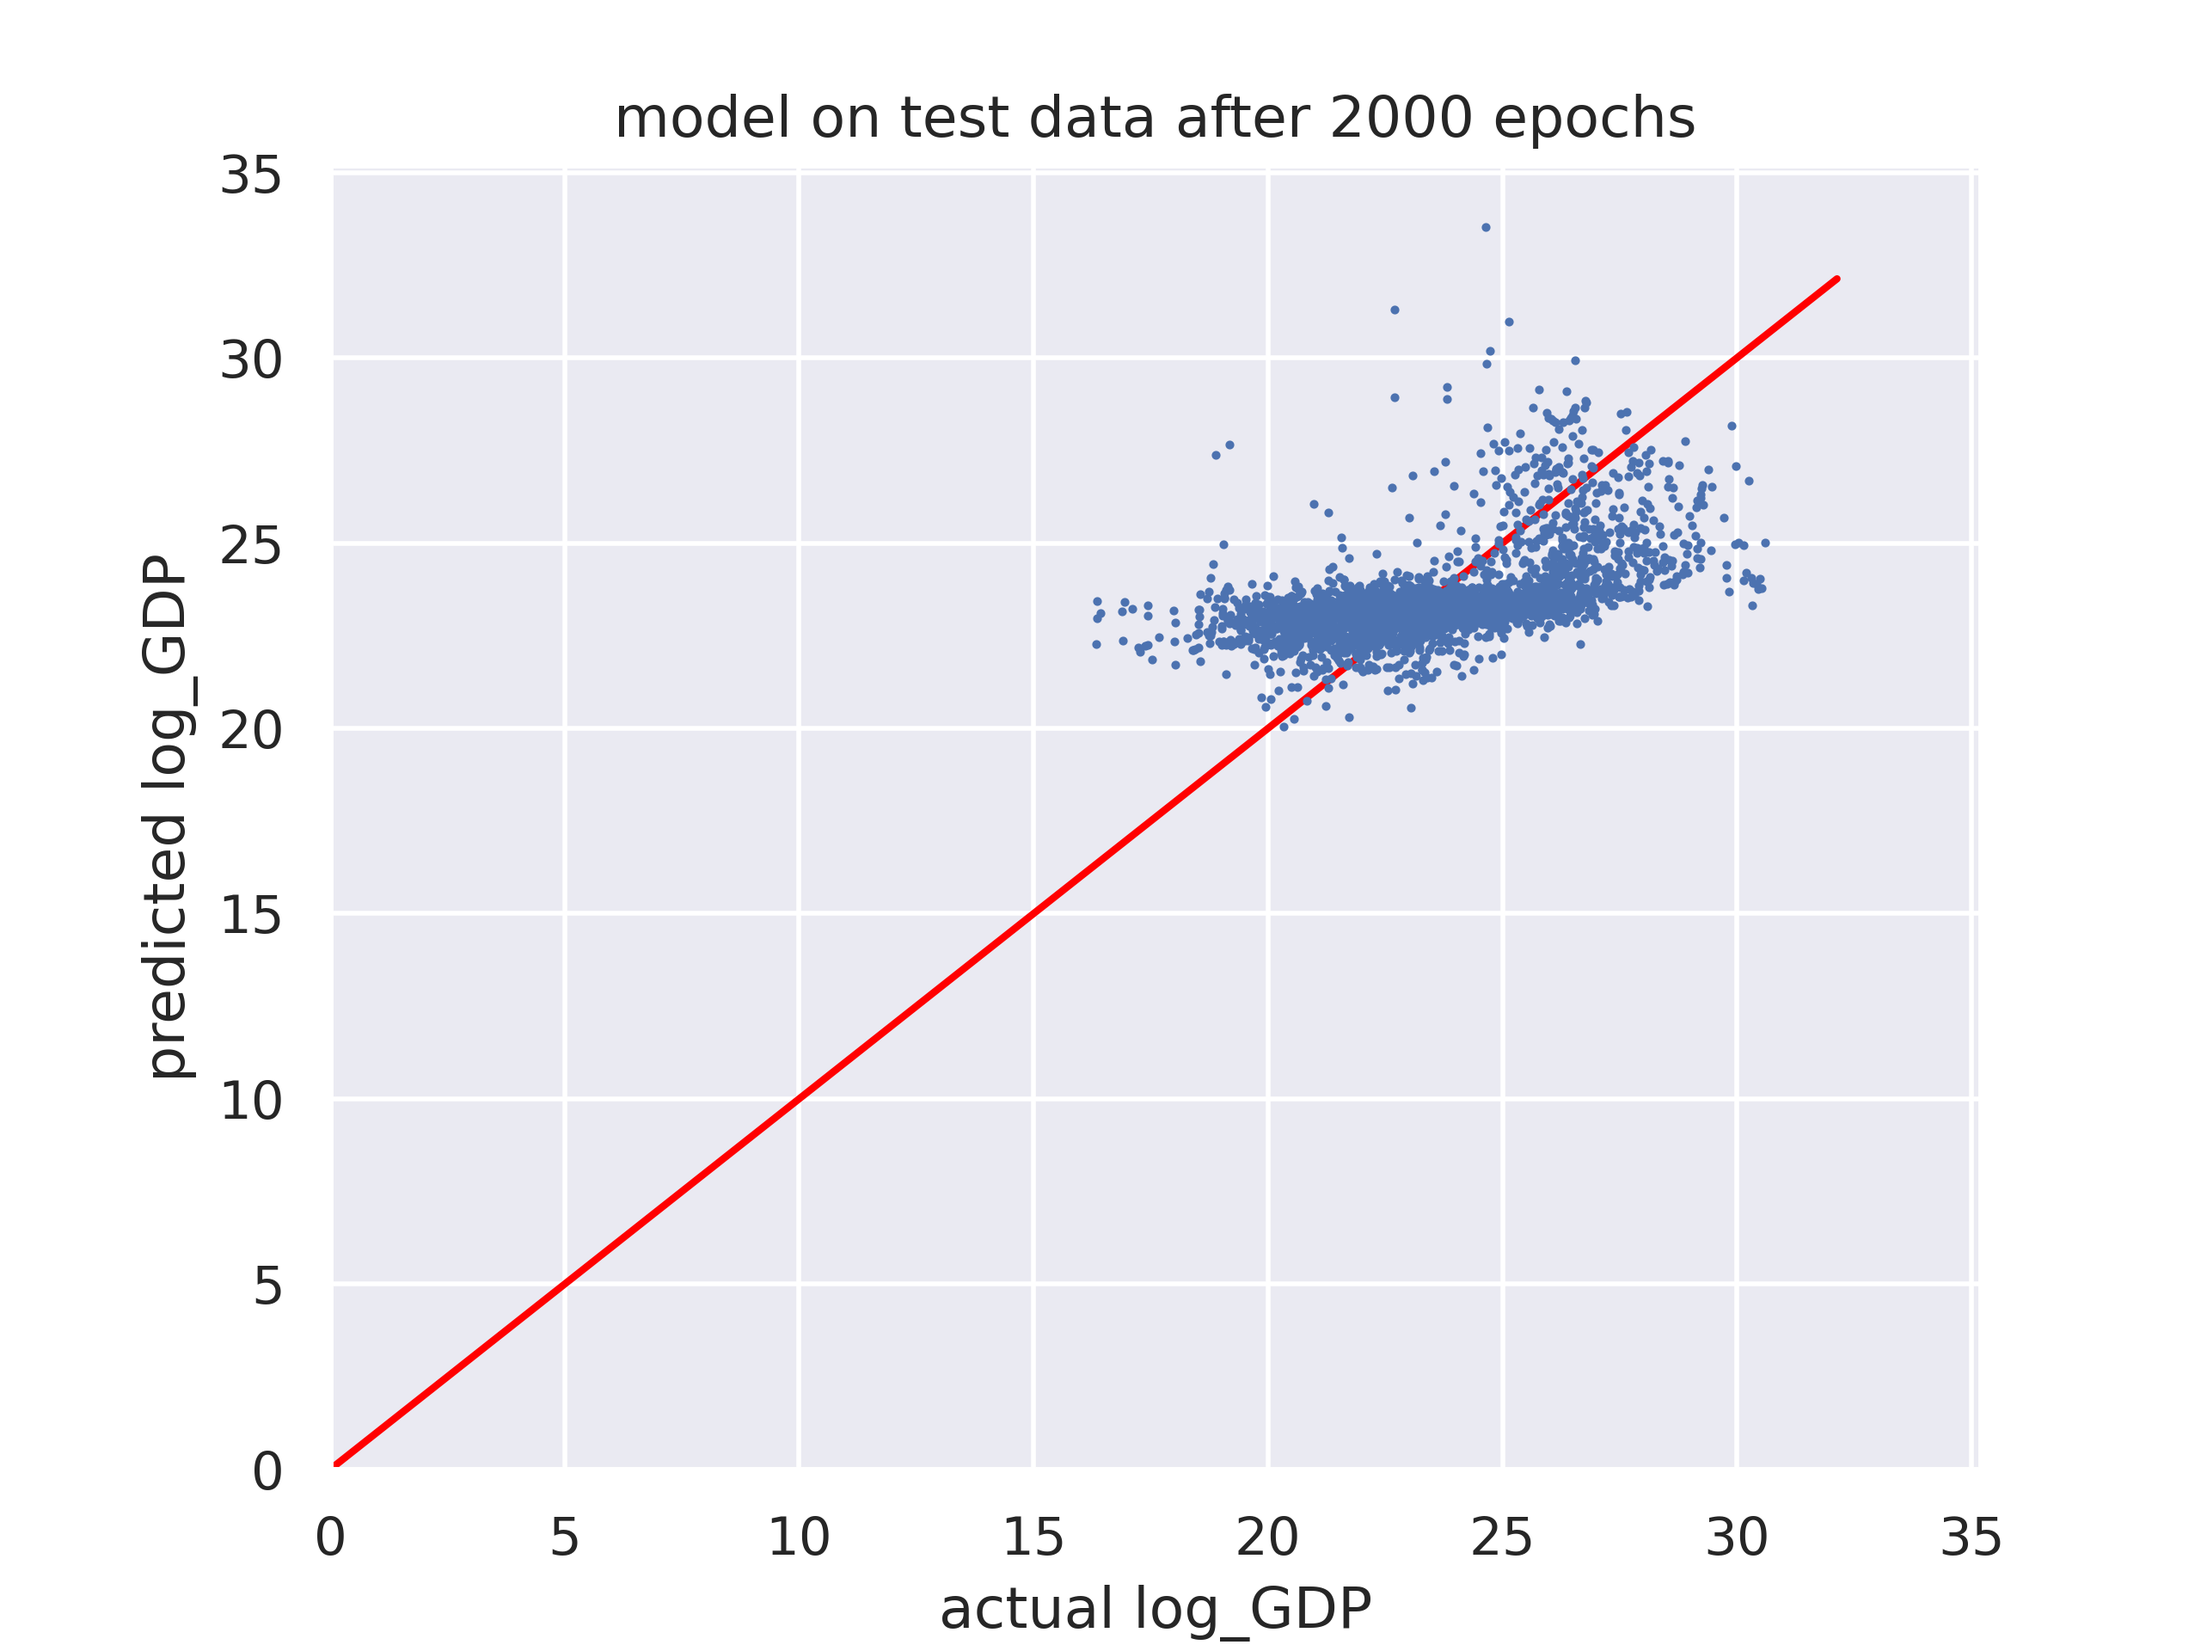
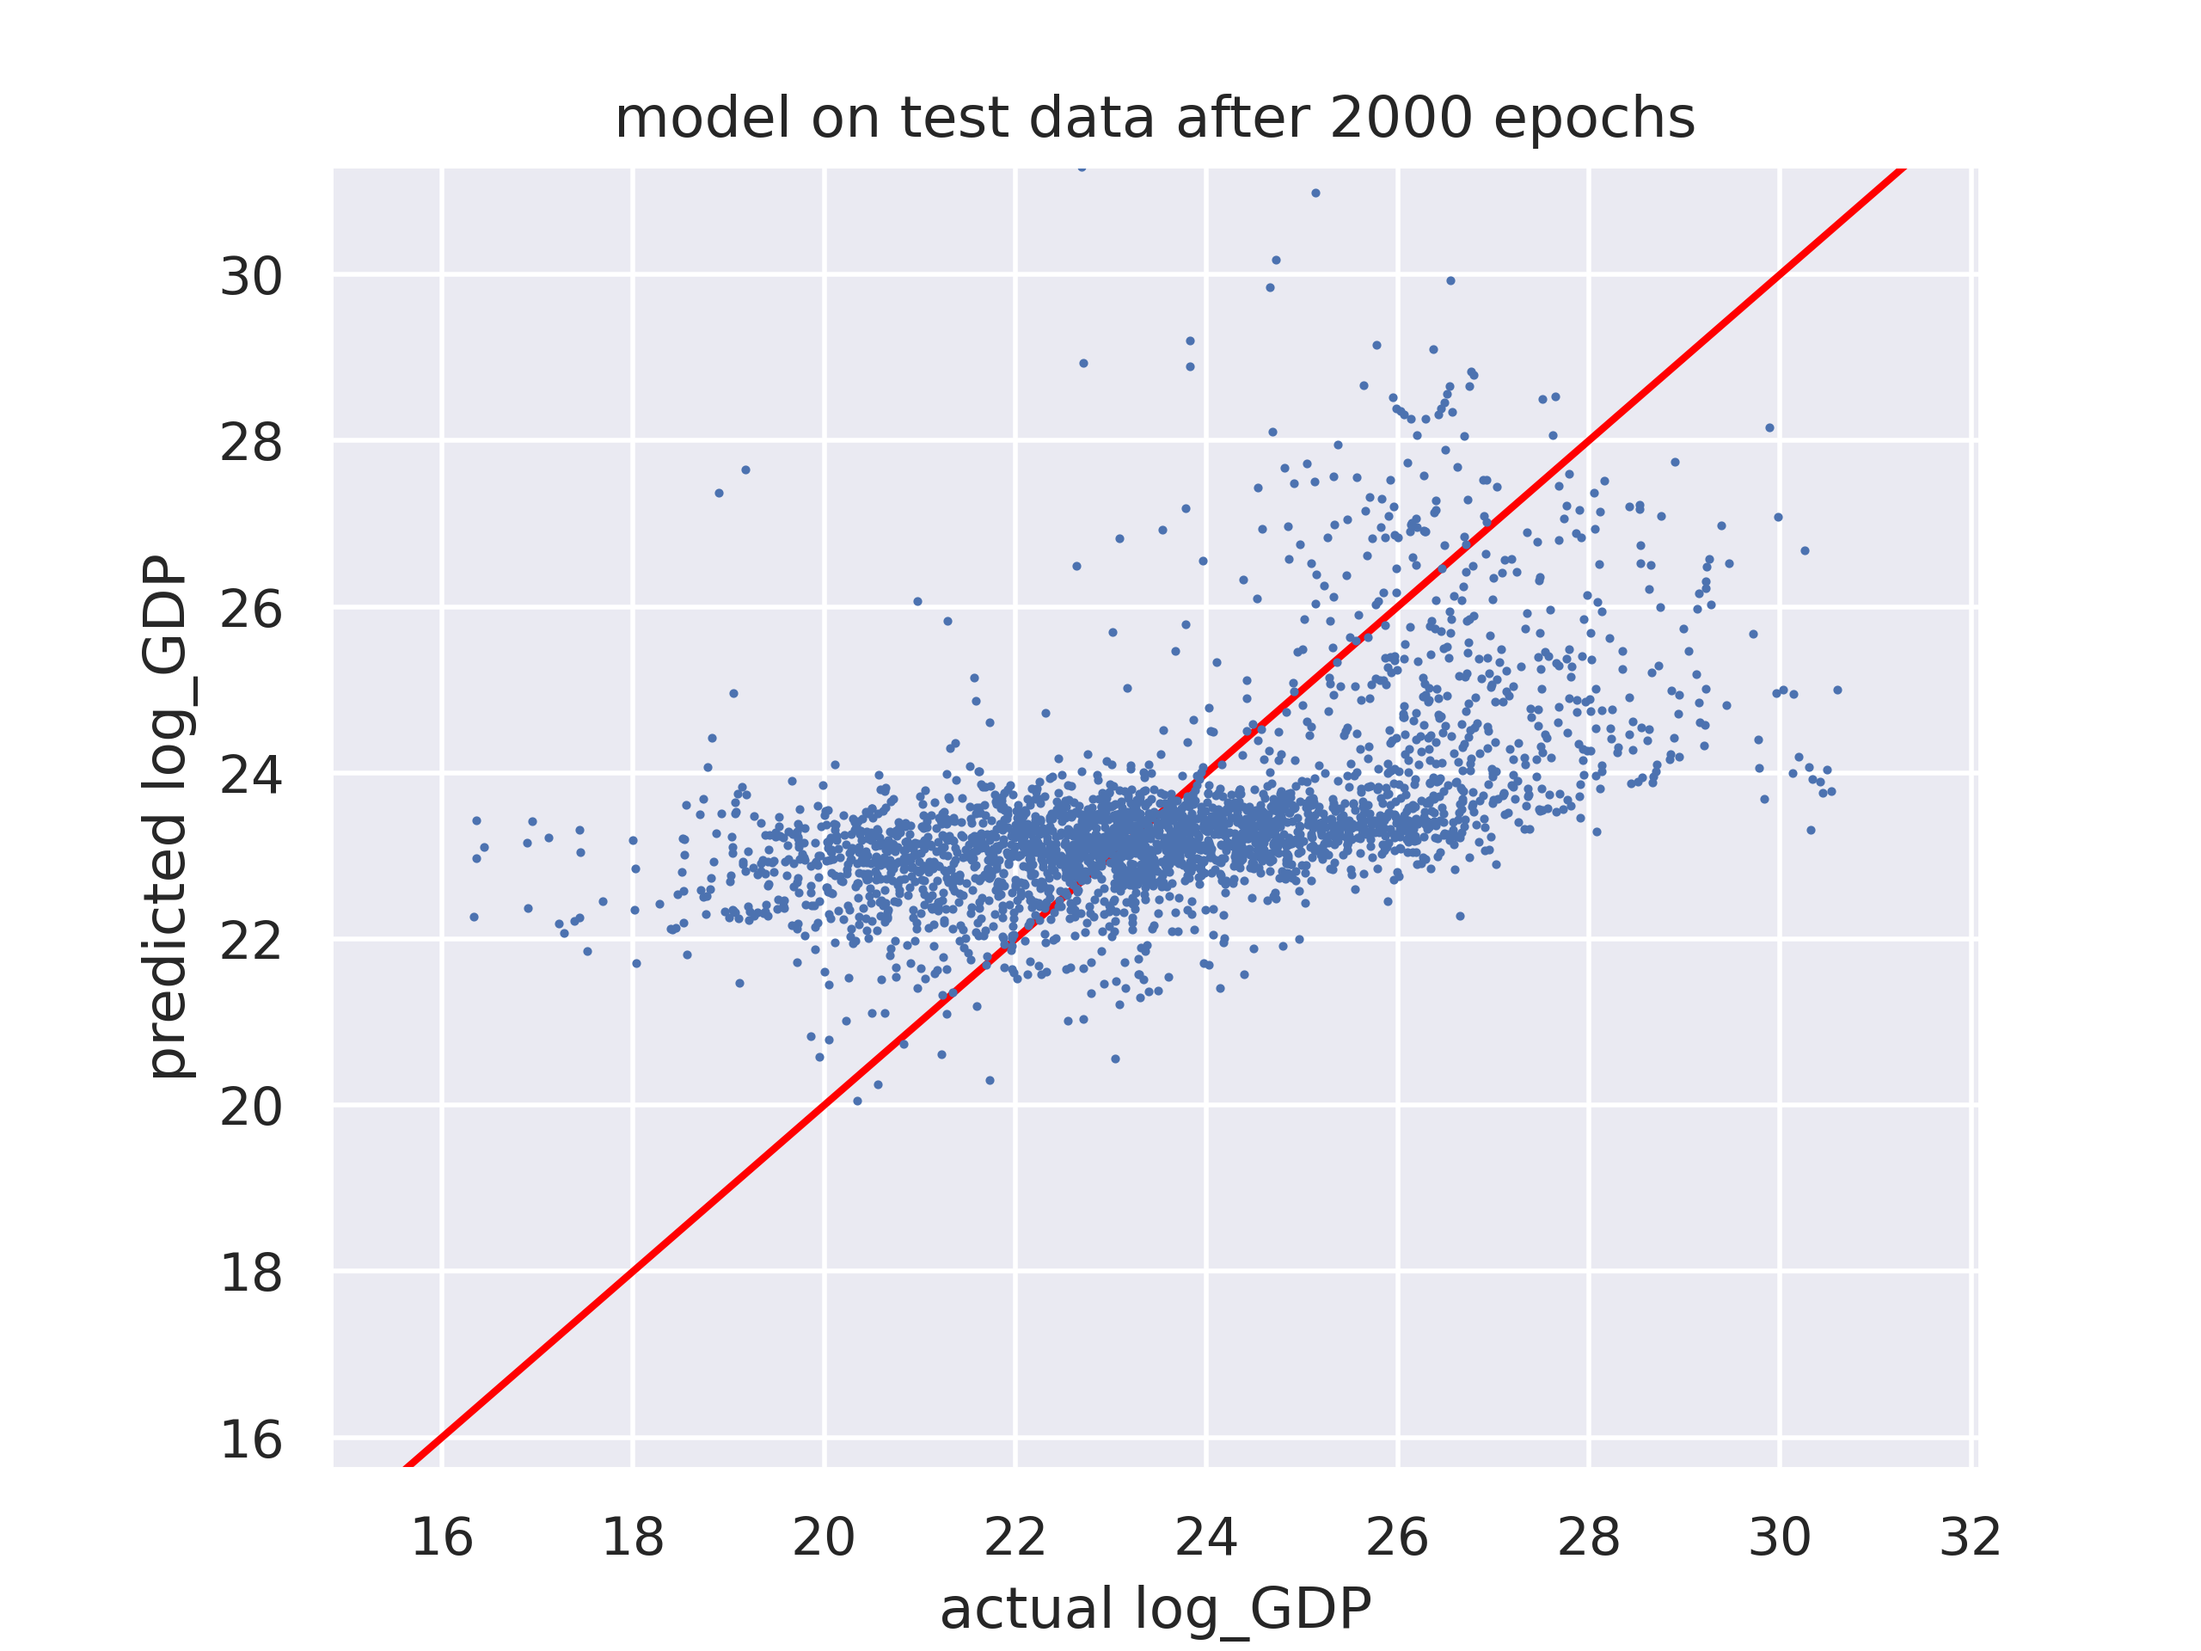
focus on upper region and print out corr

diff --git a/plot.py b/plot.py
@@ -32,16 +32,14 @@ def pred_plot(preds_df, title, out_file, max_x, max_y, square=True):
     '''
     print(f"Making prediction plot at {out_file}...", end='')
     plt.yscale('linear') # re-set to linear axis (data is already log-ed)
-    plt.plot([0, max_x], [0, max_x], color='red', zorder=1) # place behind points
     plt.scatter(preds_df['ground_truth'], preds_df['prediction'], s=.7, zorder=2) # place in front of line
     plt.subplots_adjust(left=0.15, top=0.9) # prevent x-label and title from getting cut off
     plt.xlabel('actual log_GDP')
     plt.ylabel('predicted log_GDP') # label axes
-    if square:
-        max_x = max(max_x, max_y)
-        max_y = max_x
-    plt.xlim((0, max_x))
-    plt.ylim((0, max_y))
+    print("Correlation", np.polyfit(preds_df[['ground_truth']].values.squeeze(), preds_df[['prediction']].values.squeeze(), 1)[0], "...", end="")
+    l, r = plt.xlim()
+    plt.ylim((l, r))
+    plt.plot([l, r], [l, r], color='red', zorder=1) # place behind points
     plt.title(title)
     plt.savefig(out_file, dpi=400)
     plt.close(plt.gcf())
